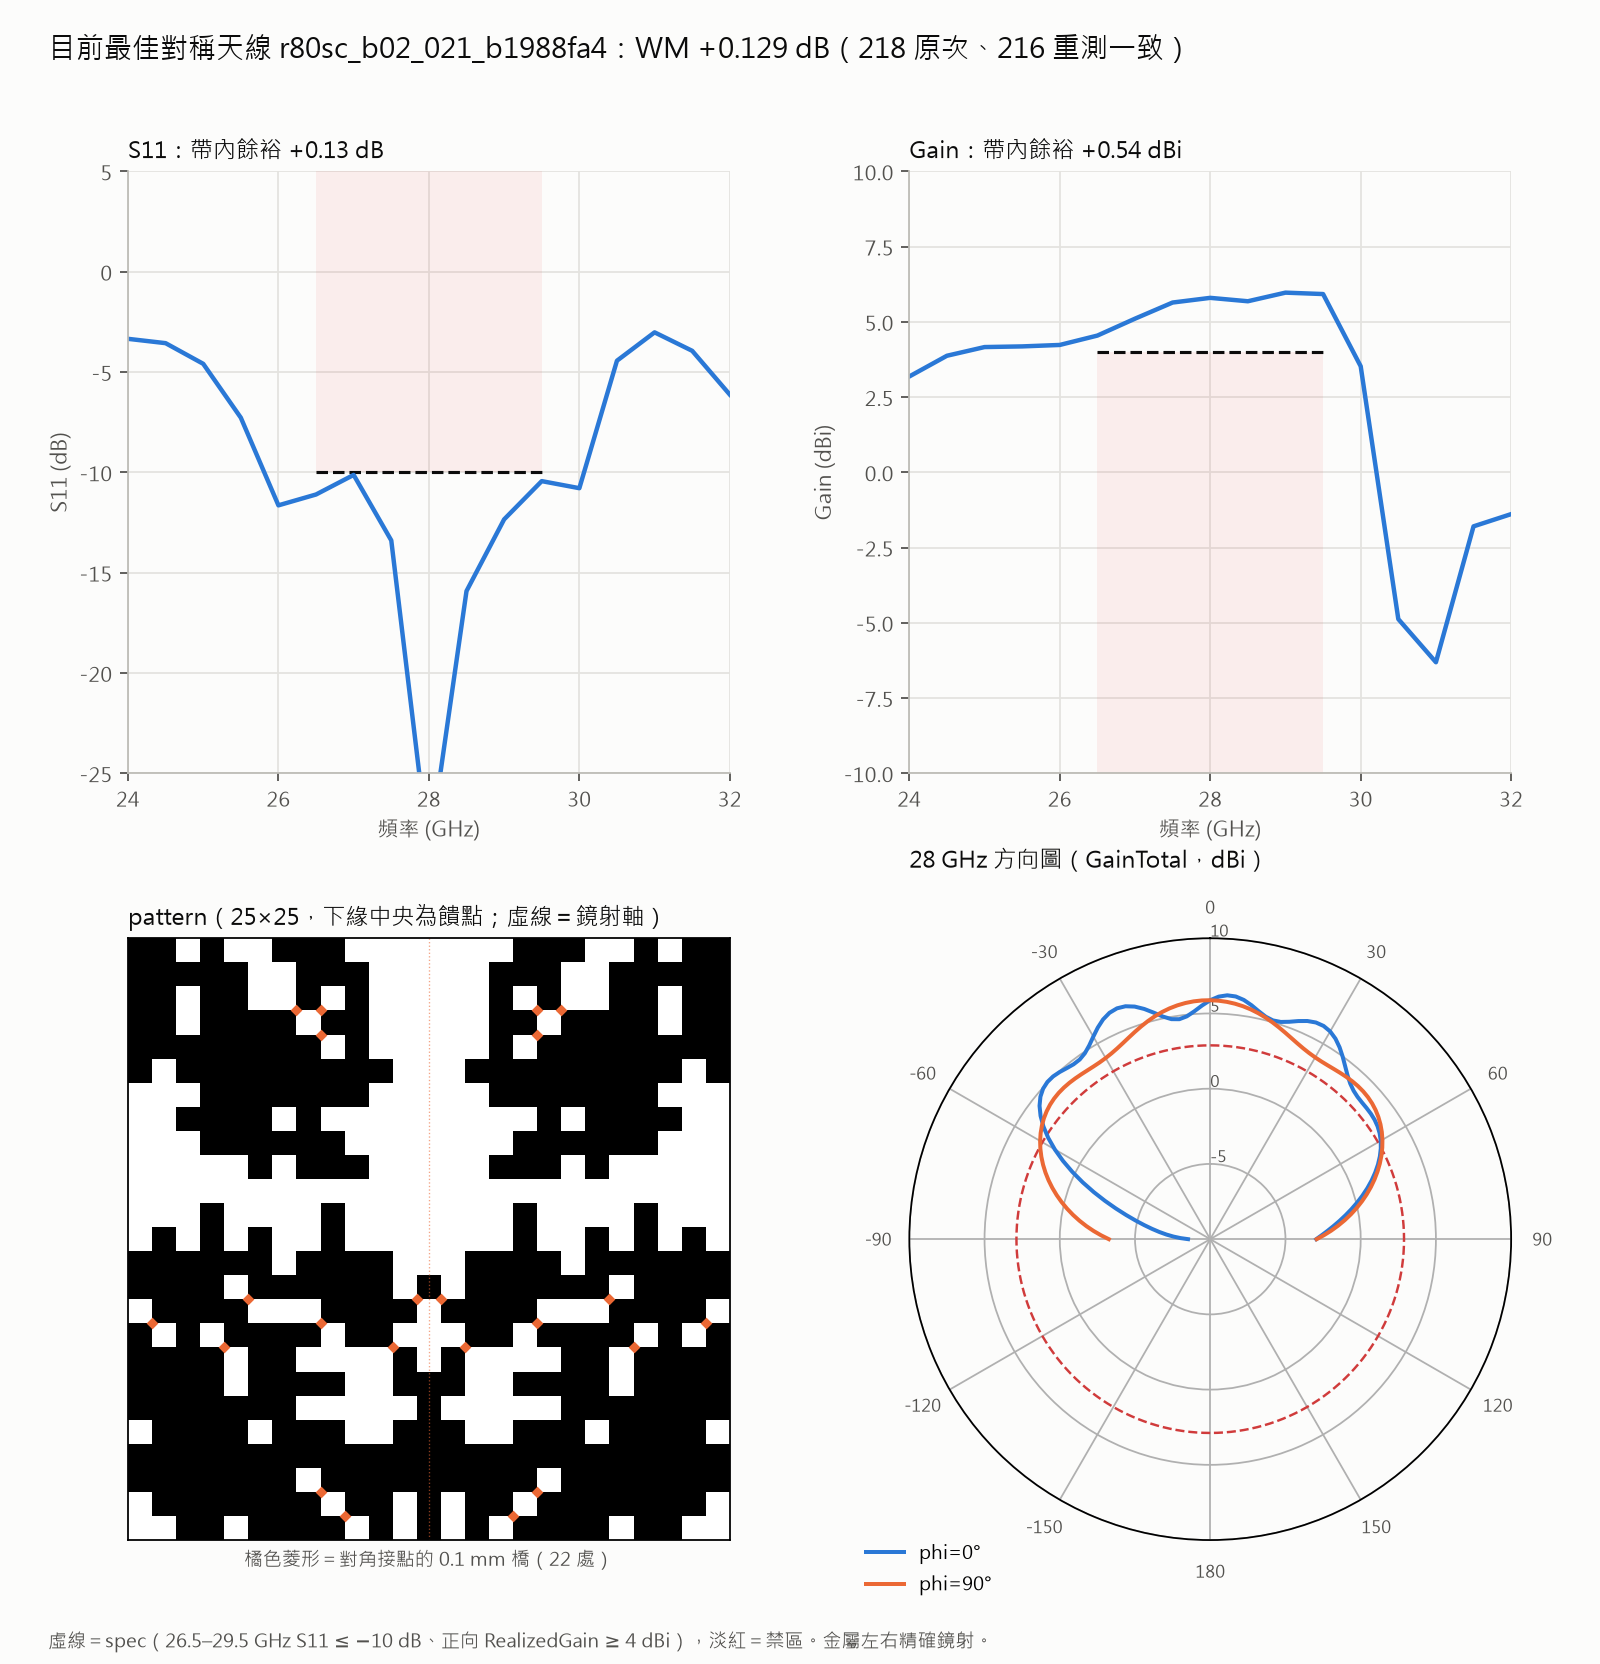
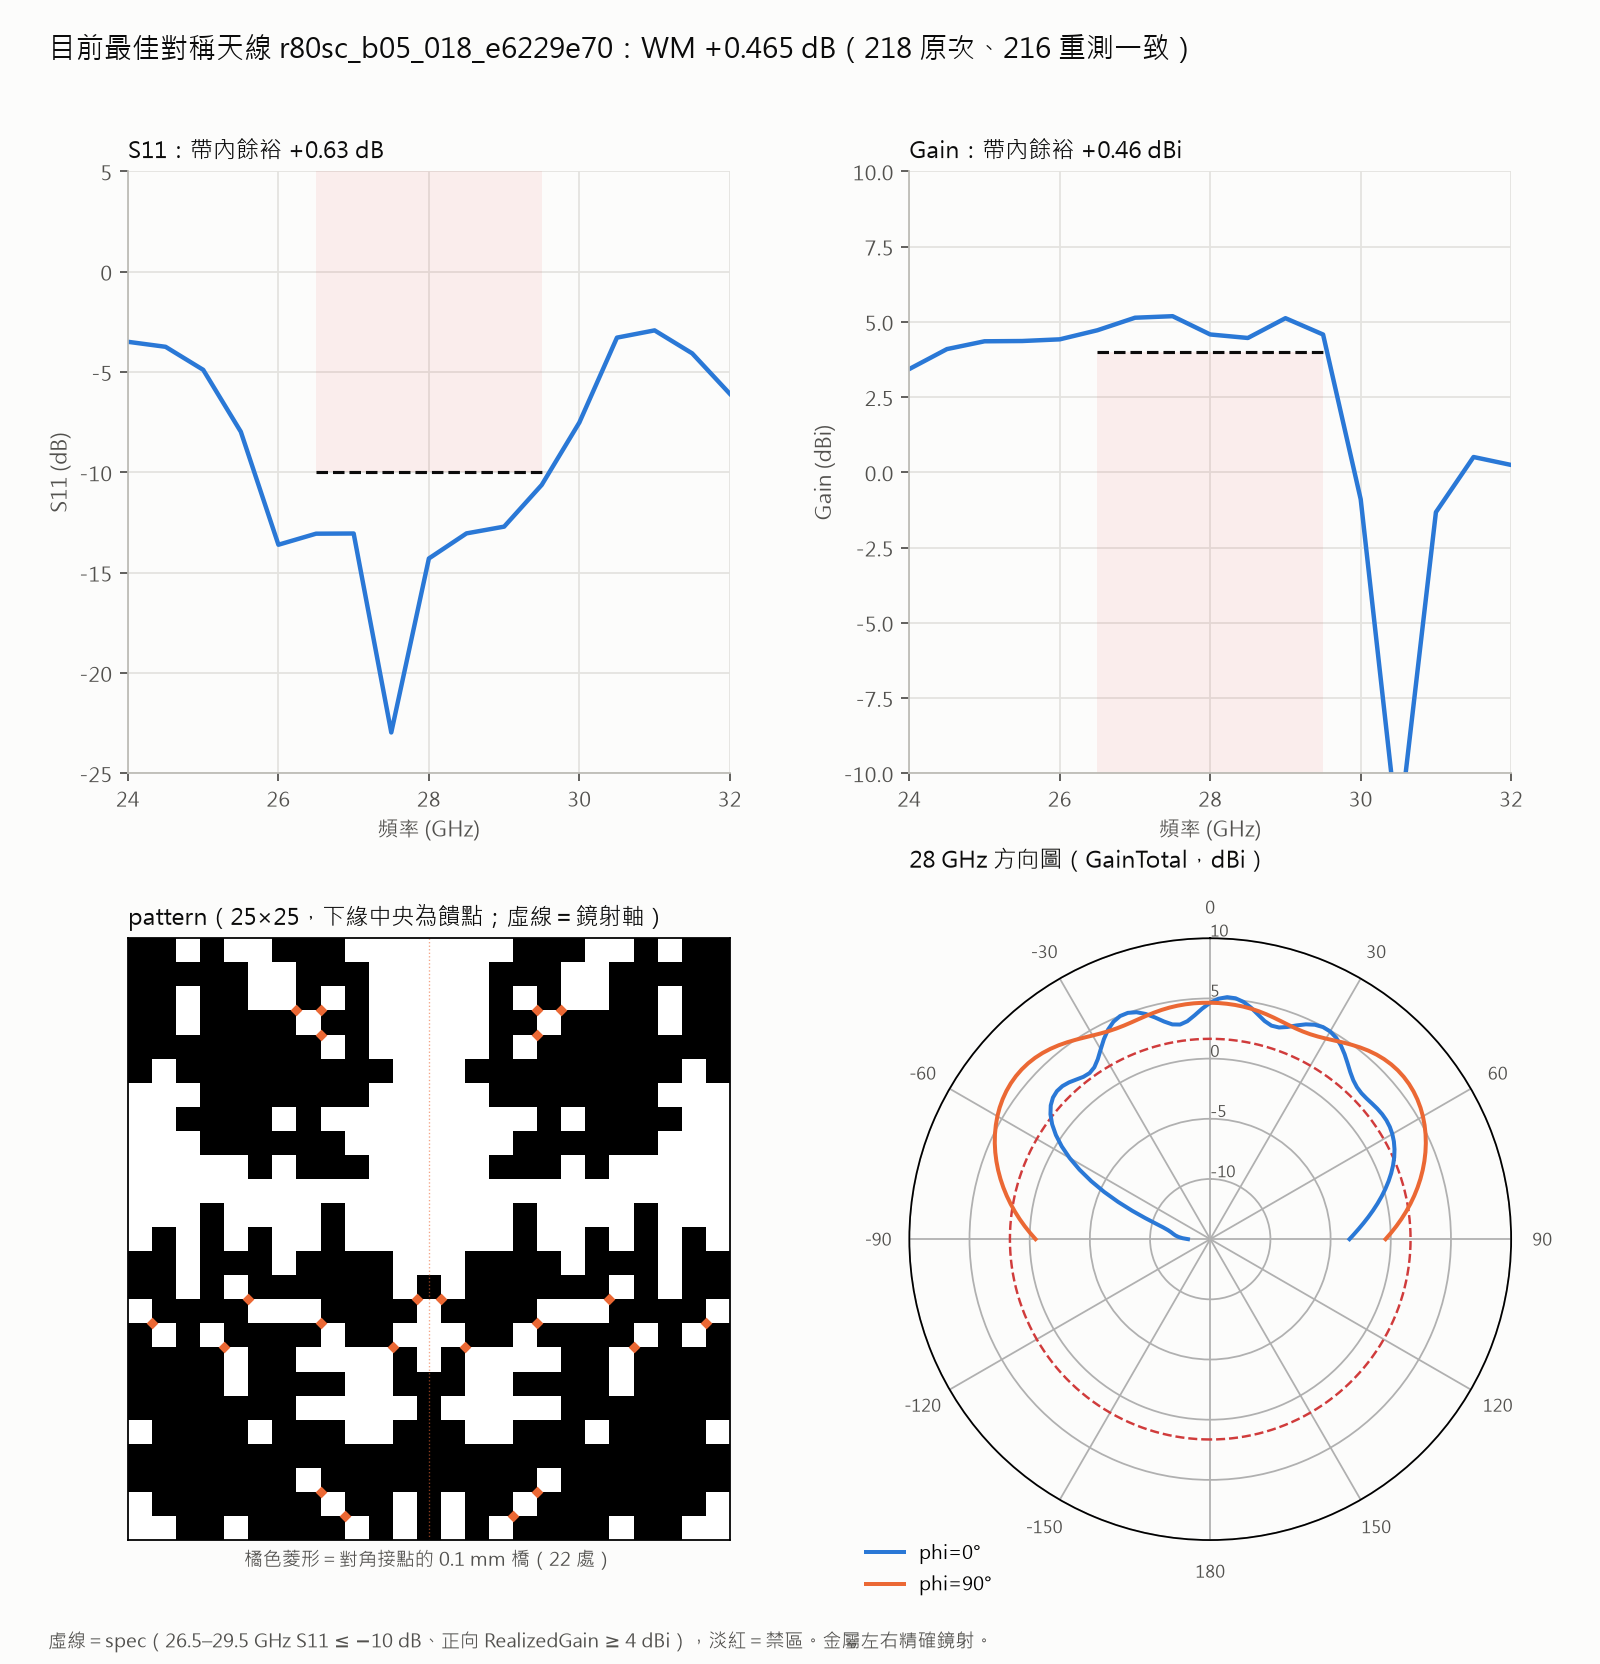
feat(r81/r80): 學長 v6 規格（11–40 GHz）並行追蹤；對稱天線 +0.465 公證、圖更新
- configs/dual_r81_v6a／v6：通帶 26–30、阻帶 11–19 與 36–40（−15／−20）、S11/S22 匹配；補量 r81v6m02 排最優先
- r80sc_b05_018 WM +0.465，218 原次／216 重測一致；爬升圖與最佳卡片換新冠軍

diff --git a/script/figs/r80_sym.py b/script/figs/r80_sym.py
@@ -130,7 +130,7 @@ def card_figure(out, rid, cfg):
 def main(argv=None):
     ap = argparse.ArgumentParser()
     ap.add_argument("outdir", type=Path)
-    ap.add_argument("--id", default="r80sc_b02_021_b1988fa4")
+    ap.add_argument("--id", default="r80sc_b05_018_e6229e70")
     args = ap.parse_args(argv)
     plt.rcParams["font.family"] = ["Microsoft JhengHei", "sans-serif"]
     cfg = load_profile_config(sc.CONFIG)

diff --git a/configs/README.md b/configs/README.md
@@ -19,6 +19,8 @@
 | `dual_r81_v5a.yaml` | 學長 10/14：掃 18–40 GHz；S21 通帶 26–30 ≥−3、18–24.5 與 36–40 ≤−15 dB；S11/S22 26.5–29.5 ≤−10 | 量測窗改 18–40（求解設定不變）；舊 22–40 真值 SM 可沿用（18–21.5 遮罩），但計分需補量 | R81 v5a |
 | `dual_r81_v5.yaml` | 同 v5a，兩阻帶 ≤−20 dB | 最終目標 | R81 v5 |
 | `dual_r81_v4x.yaml` | v4 的計分（22–24.5／36–40 ≤−20）放在 v5 的 18–40 GHz 量測上 | 「先收尾 v4」那條選樣線用；量測與 v5 相同，資料兩邊共用 | R81 v4x |
+| `dual_r81_v6a.yaml` | 學長 10/15 17:45：量測 11–40 GHz，S21 通帶 26–30 ≥ −3、阻帶 11–19 與 36–40 ≤ −15，S11/S22 26.5–29.5 ≤ −10 | 19–26 GHz 不限（過渡帶）；open_region 仍 16 GHz，11–16 GHz 準度打折 | R81 v6a |
+| `dual_r81_v6.yaml` | 同 v6a，兩阻帶 ≤ −20 dB（壓 Ku band 與 n260） | 學長的目標版 | R81 v6 |
 | `single_r80_sym_climb.yaml` | R80 對稱天線續探：左右鏡射 pattern，26.5–29.5 GHz S11≤−10、Gain≥4（離線計分，`script/r80_sym_climb.py`） | 量測與 R80 完全相同（measurement_id 998f5008），資料併用；profile 不設門檻 | R80 續 |
 | `dual_r81_s21_discrete.yaml` | S21 三段：26–30 ≥−3、16–20/36–40 ≤−20 dB；16–40 GHz Discrete | 10/12 首批 60 筆 survey 用過、已不再排入；留著當那批資料的量測身分紀錄 | R81 survey |
 | ~~`dual_r81_wide_filter.yaml`~~ | 五段工程版 S11/S22/S21 | 已移除（2026-10-12，見 git tag `pre-cleanup-20261012`）；測試改用 `tests/fixtures/profile_dual.yaml` | R81 |

diff --git a/docs/log/round-81-wide-filter.md b/docs/log/round-81-wide-filter.md
@@ -429,3 +429,10 @@ Ricky 要求 S11、S22 一起達標（沿用 R81 原匹配條件 26.5–29.5 GHz
 - **斷開搜尋**：`r81_curve_sm build --disconnect`（起點與候選都只留兩埠 8 連通不相連的設計）。b56 起，v5a 計分；SM 在斷開區 holdout ρ −0.58（幾乎沒看過這類設計），實際等同鄰域隨機爬山。停損寫死：3 批 v5a 不超過 −6.2 就停。
 - **A 線**：b45 之後 b47–b54 無突破。前 12 名通帶、匹配都過，高阻帶數筆已過，卡住的全是低阻帶 22–24.5 GHz（差 0.87–1.17 dB，22 與 24.5 GHz 兩端同時約 −19.4）。b55 起 `--climb-top 6 --max-flips 3`。
 - **事件**：216、218 夜間 Windows 自動更新重開機，加上 HFSS RPC 斷線後 worker 凍結（`4ec1636` 修：殺 HFSS 後仍不返回就退出，r81v2_worker 自動重啟）。
+
+## 2026-10-15 20:40：學長新規格 v6（11–40 GHz）並行追蹤
+
+- 學長 17:45：S21 通帶 26–30 GHz −3 dB；19 GHz 以下與 36 GHz 以上抑制到 −20 dB（壓 Ku band 與 n260），頻率 11–40 GHz；不行先試 −15。S11/S22 匹配照舊保留。
+- `configs/dual_r81_v6a.yaml`（−15）／`dual_r81_v6.yaml`（−20），measurement `dual25_p01_db075_11_40_discrete_v6`；open_region 維持 16 GHz 與既有真值同求解設定，11–16 GHz 準度打折。
+- 補量 `r81v6m02`：斷開設計 v5a 前 18 筆（最佳 −2.69）＋相連 v4 前 6 筆（最佳 −0.71），11–40 GHz 重量，prio −1。
+- 同時段：v5a 斷開搜尋 b56→b58 由 −6.2 推到 −2.69；v4 細步爬山 b55→b57 由 −0.87 推到 −0.71。

diff --git a/configs/ONGOING.md b/configs/ONGOING.md
@@ -12,7 +12,8 @@
 - **現況（10/15 12:40）**：v4a 已公證（b25_008 +0.21／+0.20 等四筆）；v4 最佳 −0.87（`b45_007`，單次），之後六批無突破，卡在低阻帶 22–24.5 GHz；b55 起細步爬山（`--climb-top 6 --max-flips 3`）。
   v5（18–40 GHz）：28 筆好設計補量後最佳 v5a −6.2／v5 −11.2，18–19 GHz 只有約 −9 dB（兩埠金屬相連，低頻直通）。整列切斷手術（s52）壓低 18 GHz 但通帶垮，WM 無改善。
   **斷開搜尋**（`build --disconnect`，只產生兩埠不相連的設計，v5a 計分）：b56 起，停損＝3 批 v5a 不超過 −6.2 就停。
-- **R80 對稱天線續探（學長要求，10/15 起）**：`python -m script.r80_sym_climb build/enqueue/score`，量測同 R80，jobs 釘選 218（`--machine 218`），其餘兩台跑濾波器。
+- **v6（學長 10/15 17:45，另一規格並行追蹤）**：量測 11–40 GHz，阻帶 11–19 與 36–40 GHz（`dual_r81_v6a.yaml` −15／`dual_r81_v6.yaml` −20）。`r81v6m02`（24 筆好設計 11–40 補量，prio −1）跑中。
+- **R80 對稱天線續探（學長要求，10/15 起）**：最佳 `r80sc_b05_018` WM +0.465（已公證）；：`python -m script.r80_sym_climb build/enqueue/score`，量測同 R80，jobs 釘選 218（`--machine 218`），其餘兩台跑濾波器。
 - **資料根**：`\\140.123.106.219\temp\碩二_鄒穎麒's\antenna\experiments\r81_wide_filter_20261007\v2_v001\dataset`
 - **正式機重啟**（三台同一行，repo 根、原環境）：
 
